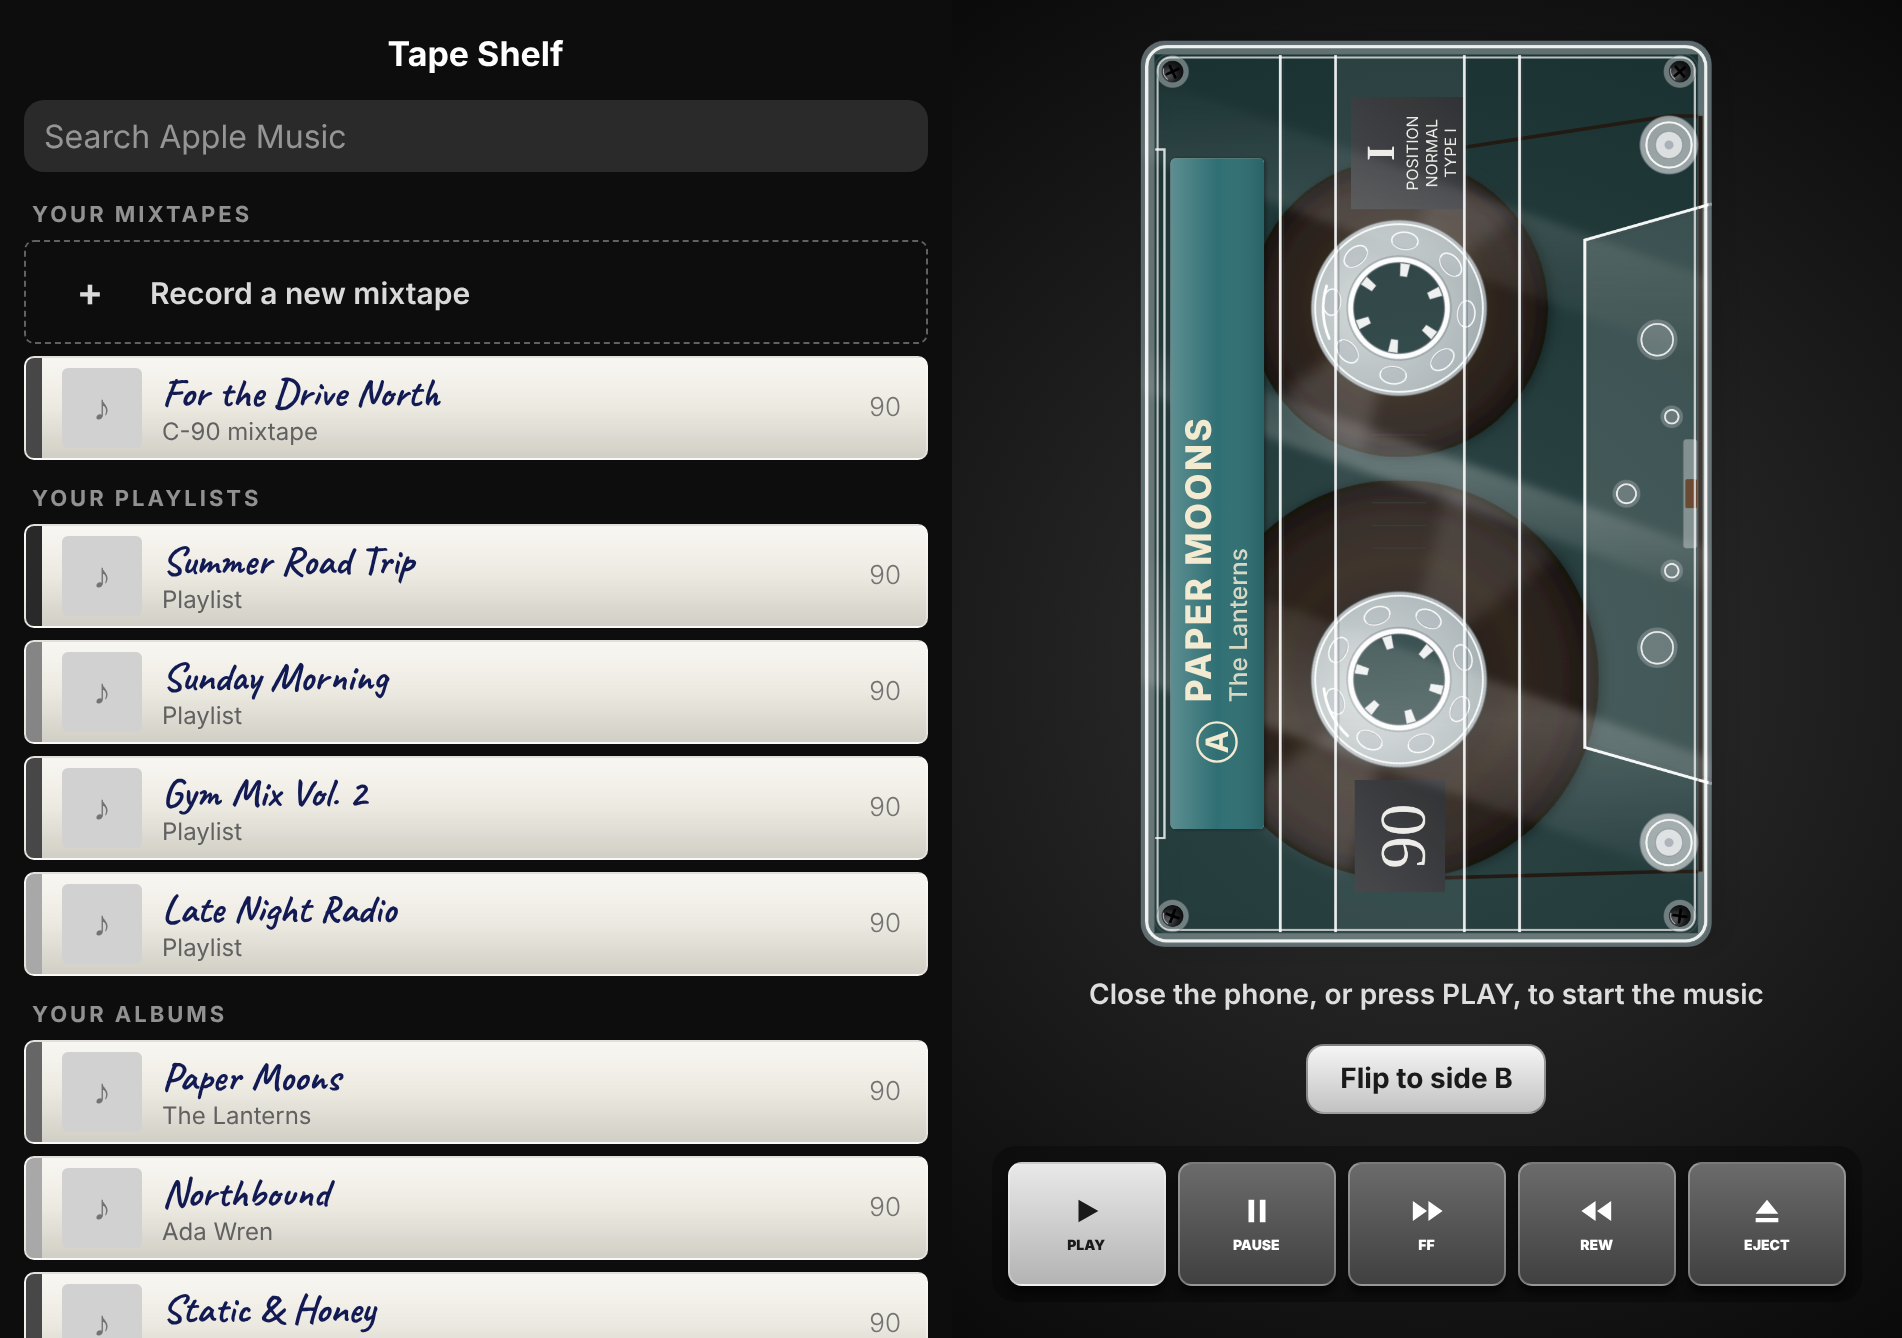
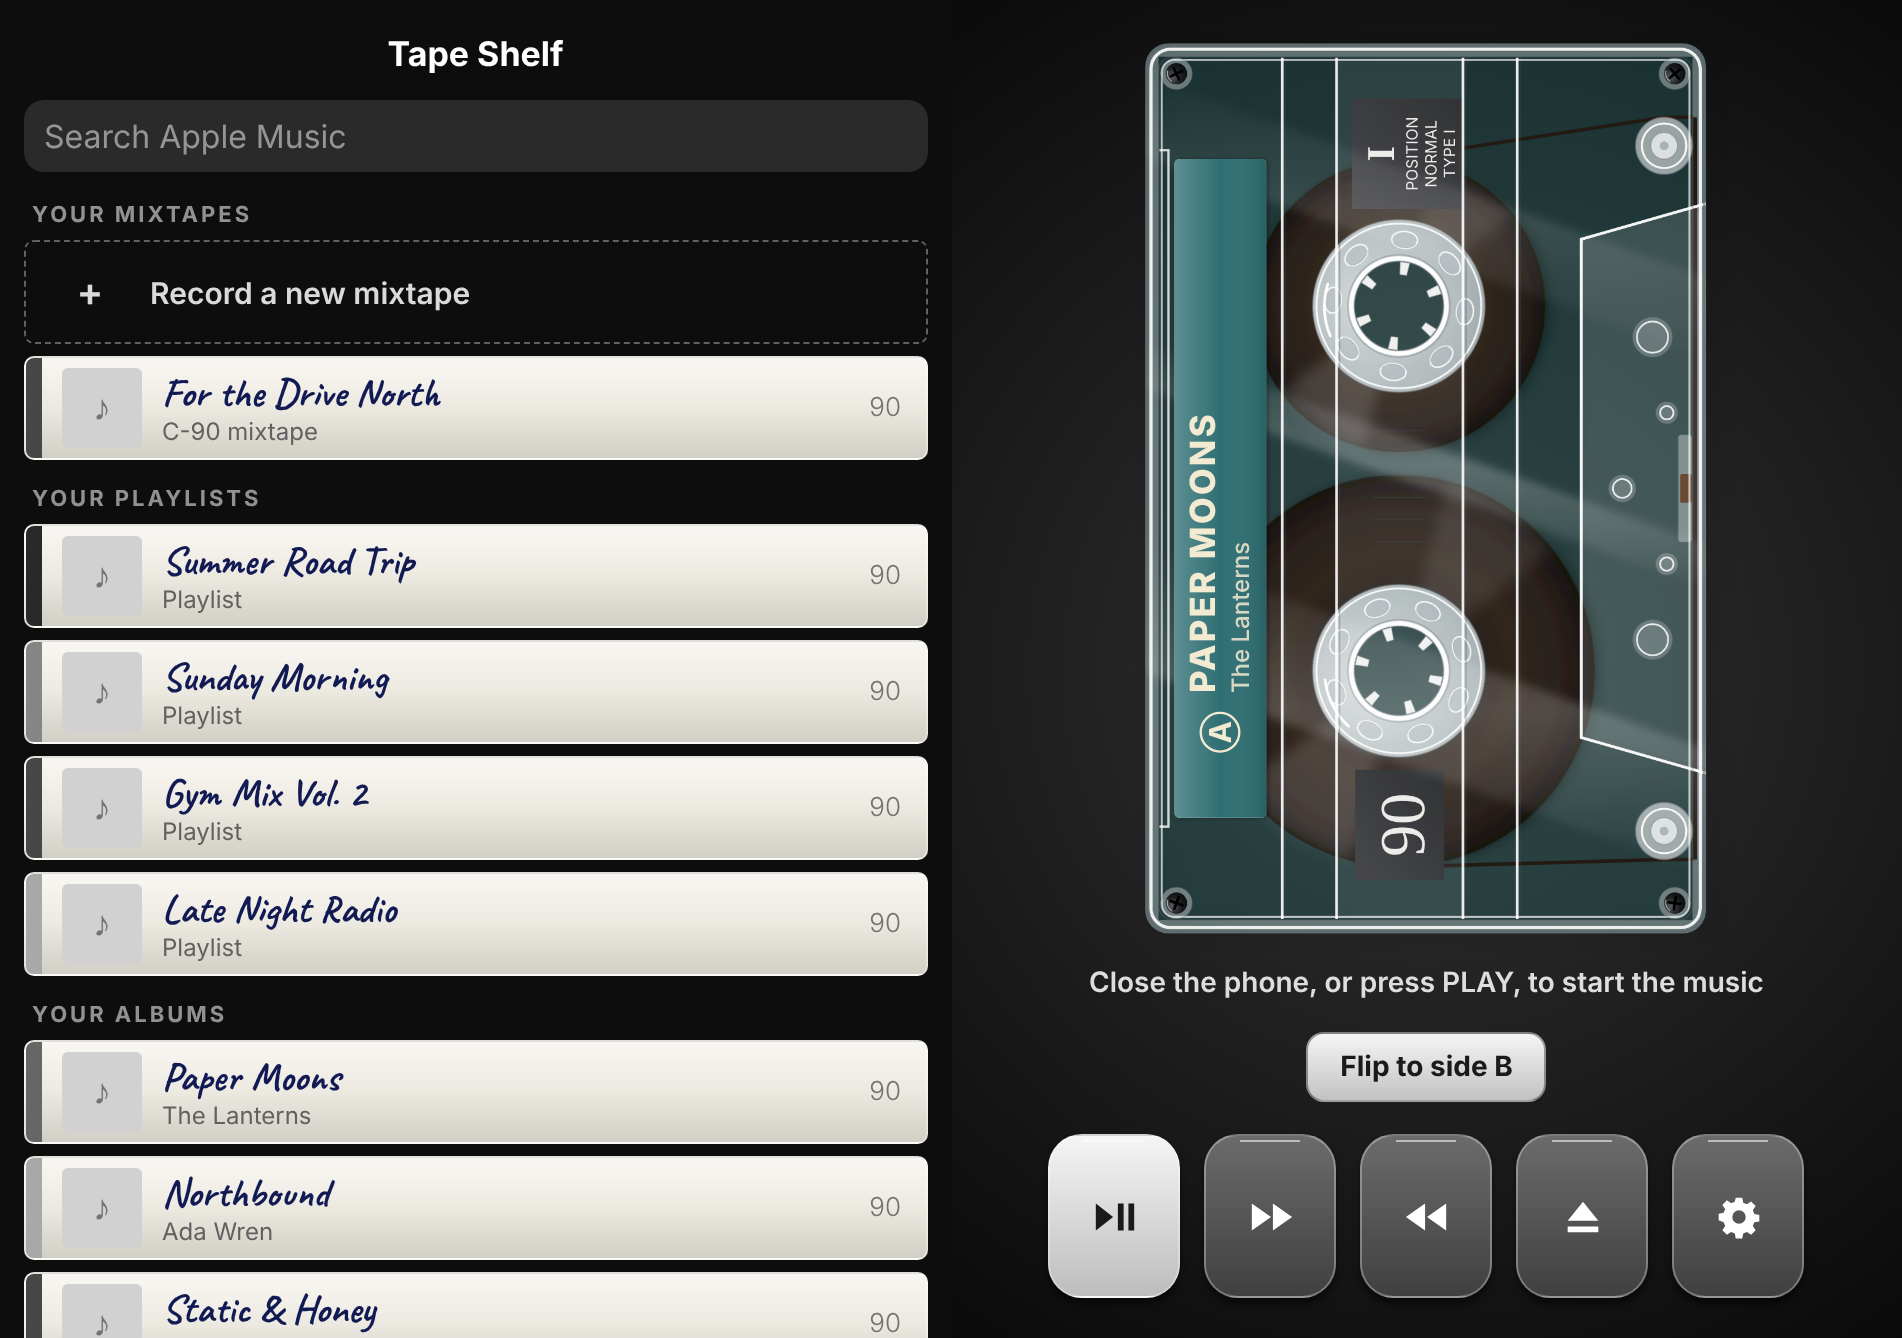
Use the closed screen's keys on the open screen
Five large keys in a row: play/pause, fast forward, rewind, eject and
settings.

Claude-Session: https://claude.ai/code/session_015CNmSEpanpmujmbPK8yXHv

Changed region(s): [[0.5273, 0.0306, 0.9926, 0.9806]]

diff --git a/TapeDeck/OpenTrayView.swift b/TapeDeck/OpenTrayView.swift
@@ -1,9 +1,11 @@
 import SwiftUI
 
 /// The open phone's right half: the chosen tape lying in the tray, waiting for
-/// the phone to be closed. The keys are here too, for screens that cannot fold.
+/// the phone to be closed. The keys are here too, the same ones as on the
+/// closed phone, for screens that cannot fold.
 struct OpenTrayView: View {
     @EnvironmentObject private var model: PlayerModel
+    @State private var showSettings = false
 
     private var hint: String {
         if !model.hasTape { return "Choose a tape" }
@@ -49,7 +51,11 @@ struct OpenTrayView: View {
                 }
                 .buttonStyle(PlainKeyButtonStyle())
             }
-            TransportKeys(vertical: false, ejectRemovesTape: true)
+            // The same keys as the closed phone, laid in a row: play/pause,
+            // fast forward, rewind, eject and settings.
+            TransportKeys(vertical: false, keyHeight: 82, bare: true, big: true, spacing: 12,
+                          ejectRemovesTape: true, onSettings: { showSettings = true })
+                .frame(maxWidth: 5 * 66 + 4 * 12)
         }
         .padding(20)
         .background(
@@ -57,5 +63,8 @@ struct OpenTrayView: View {
                            center: .center, startRadius: 20, endRadius: 520)
                 .ignoresSafeArea()
         )
+        .sheet(isPresented: $showSettings) {
+            SettingsView()
+        }
     }
 }

diff --git a/TapeDeck/DeckView.swift b/TapeDeck/DeckView.swift
@@ -375,6 +375,8 @@ struct TransportKeys: View {
     /// True where eject should take the tape out; false where it only opens
     /// the shelf to pick another.
     var ejectRemovesTape = false
+    /// If set, a settings key is added at the end.
+    var onSettings: (() -> Void)?
     var onEject: () -> Void = {}
 
     var body: some View {
@@ -414,6 +416,14 @@ struct TransportKeys: View {
                         model.ejectKey(removeTape: ejectRemovesTape)
                         onEject()
                     })
+            if let onSettings {
+                TapeKey(symbol: "gearshape.fill", label: "Settings",
+                        height: keyHeight, showsLabel: labels, corner: corner, symbolSize: symbol,
+                        onDown: {
+                            Haptics.keyDown()
+                            onSettings()
+                        })
+            }
         }
         .padding(bare ? 0 : 6)
         .background(RoundedRectangle(cornerRadius: 12).fill(Color.black.opacity(bare ? 0 : 0.28)))

diff --git a/README.md b/README.md
@@ -9,7 +9,7 @@ A cassette player for Apple Music. Your playlists and albums are tapes on a shel
 * Built for the iPhone Duo's outer display, 466 x 678 points. iOS reserves an 84 point column down one side for the camera, clock and status icons; five large keys (play/pause, fast forward, rewind, tape library, settings) sit in that column underneath them, on a solid plastic panel that is not see-through. There is no stop key: pause stops the music and keeps your place. On other phones the keys get their own strip. The solid panel's inner edge is a shallow curve that comes closest to the tape window at mid height. A vertical volume fader stands on the panel beside the keys, exactly as tall as the window. Settings has switches for the tape deck sounds and the haptics. It sets the phone's volume and follows the side buttons.
 * Haptics: a firm tap when a key goes down, a lighter one when it springs back, a heavy thud for the cassette door, and a soft pulse four times a second while the tape winds.
 * The cassette is a clear one. The shell front is see-through artwork (bright moulded edges and ridges, stickers, a stick-on paper label, guide rollers, black screws, reflections). Under it the whole reels, their clear hubs, the tape running down to the rollers and the handwriting on the label are drawn live. The artwork source is `tools/cassette-art.html`; `node tools/render-art.js` re-renders it.
-* Open phone (a large, wide screen): the tape shelf on the left and the chosen tape on the right. The shelf shows each playlist and album as a cassette spine: an off-white card with the name handwritten on it and a grey band. Pick a tape, then close the phone to start it playing. The keys are there too, for screens that cannot fold.
+* Open phone (a large, wide screen): the tape shelf on the left and the chosen tape on the right. The shelf shows each playlist and album as a cassette spine: an off-white card with the name handwritten on it and a grey band. Pick a tape, then close the phone to start it playing. The same keys as on the closed phone are there in a row (play/pause, fast forward, rewind, eject, settings), for screens that cannot fold.
 * It behaves like tape. The reels show where you are on the whole side, not in the current song: the left pack shrinks and the right one grows across the side, and each reel turns at the rate its pack size calls for.
 * Two sides. Every album and playlist is split into side A and side B of about equal length. When a side runs out the play key pops up and the music stops. Double-tap the tape to turn it over. Turn it over part way through and, as with a real cassette, you land as far from the end of the other side as you were from the start of this one.
 * Mixtapes. Pick a blank C-60 or C-90, name it, and add songs from Apple Music to each side until the tape is full. A song that is too long for the tape left on a side cannot be added. Mixtapes are kept on the phone.
